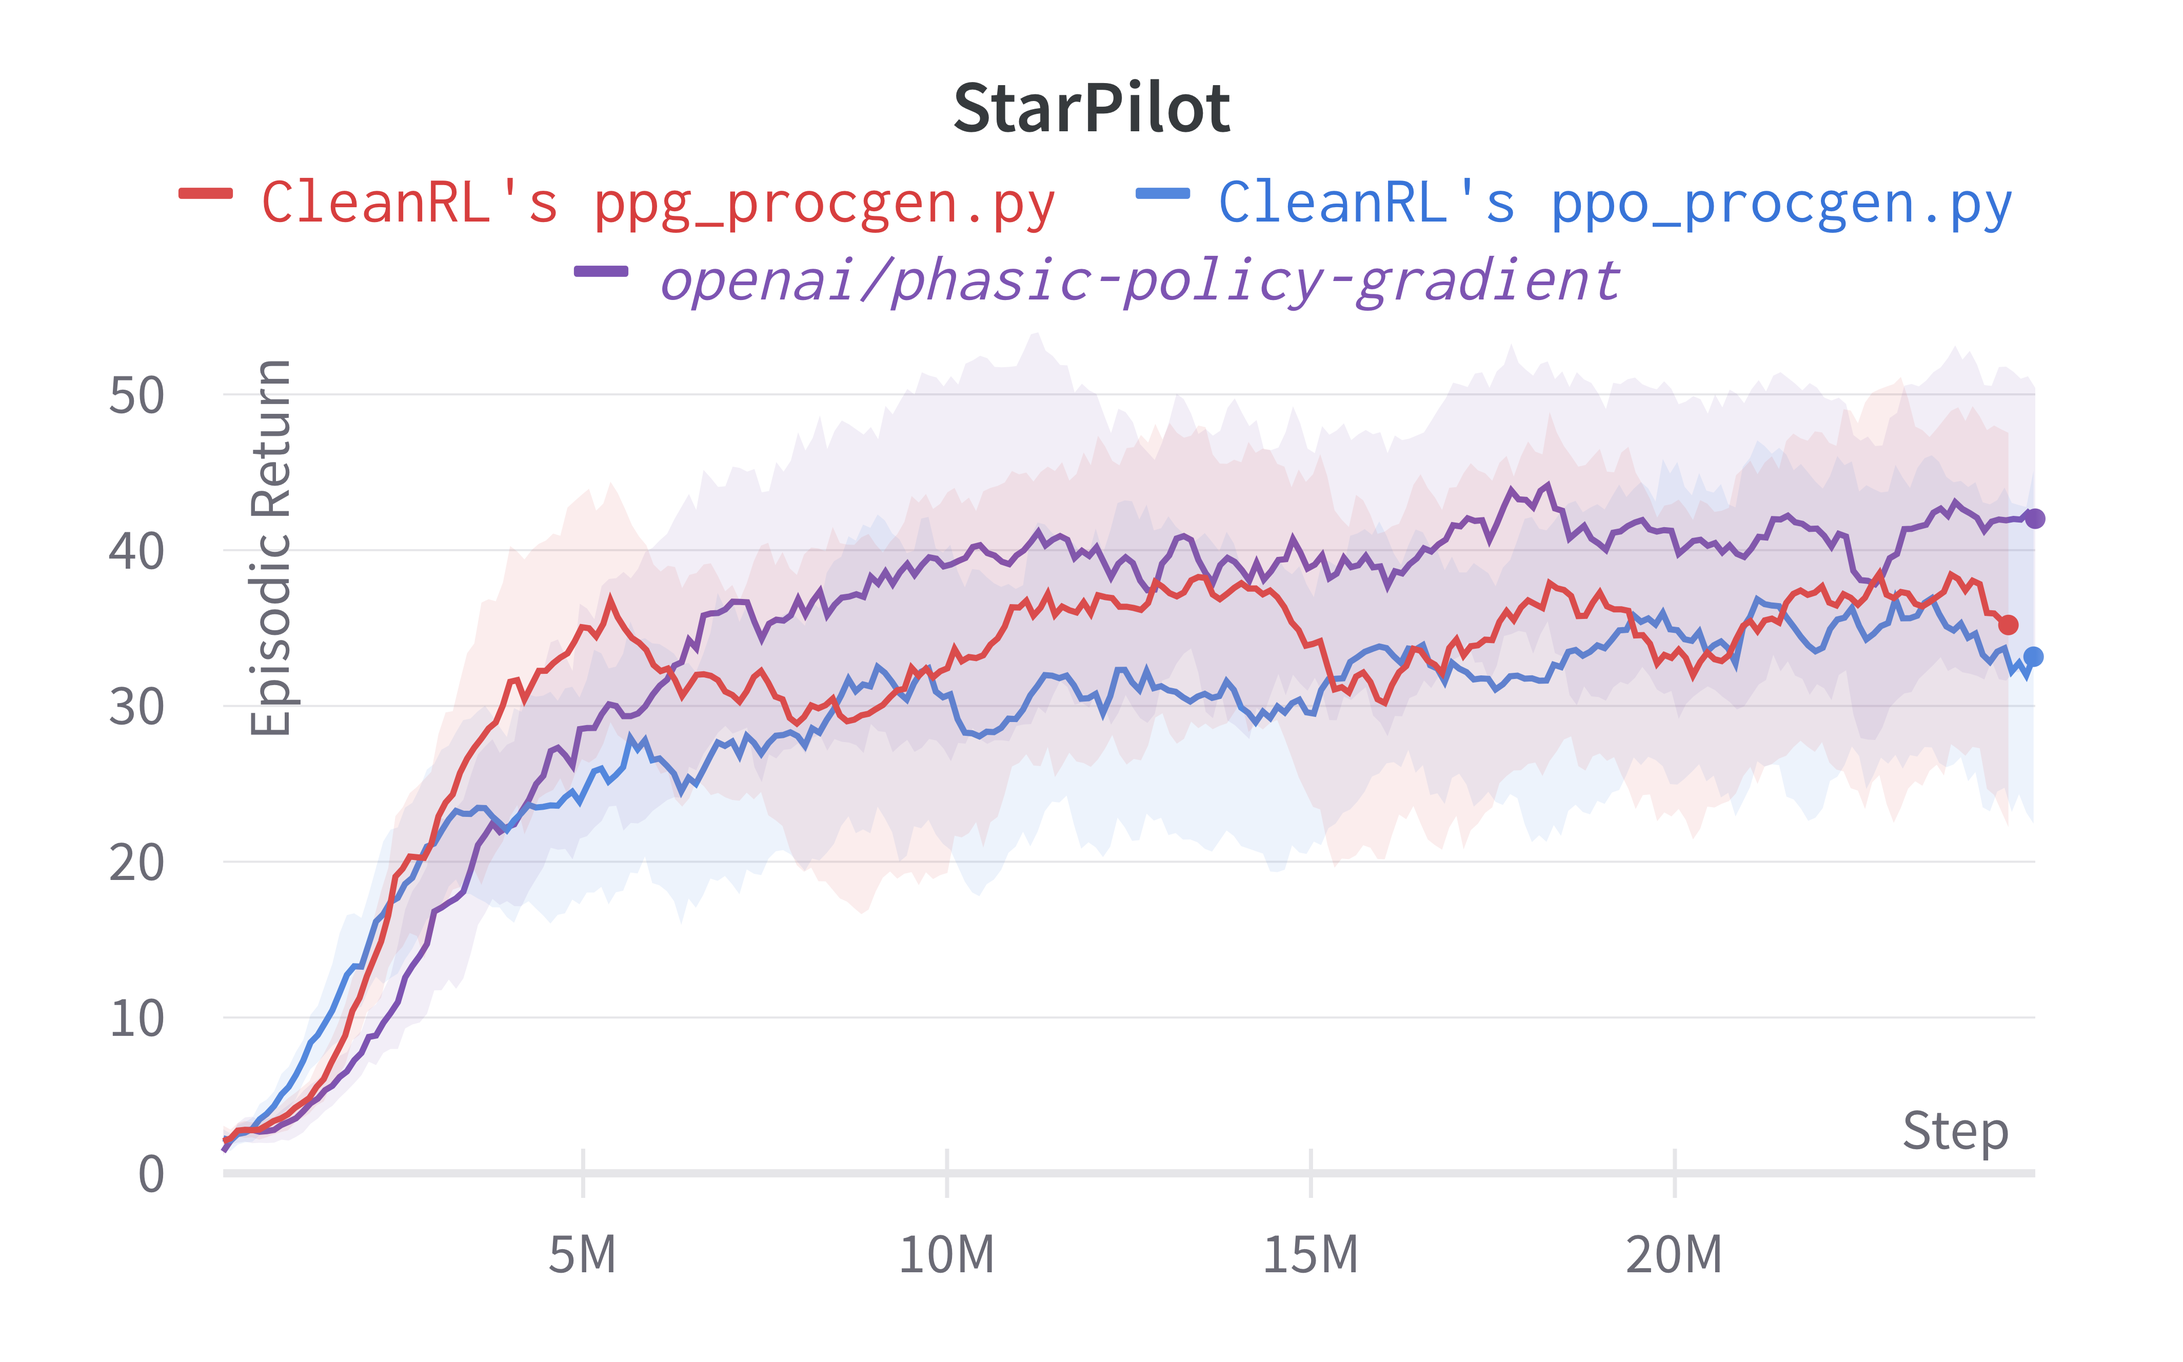
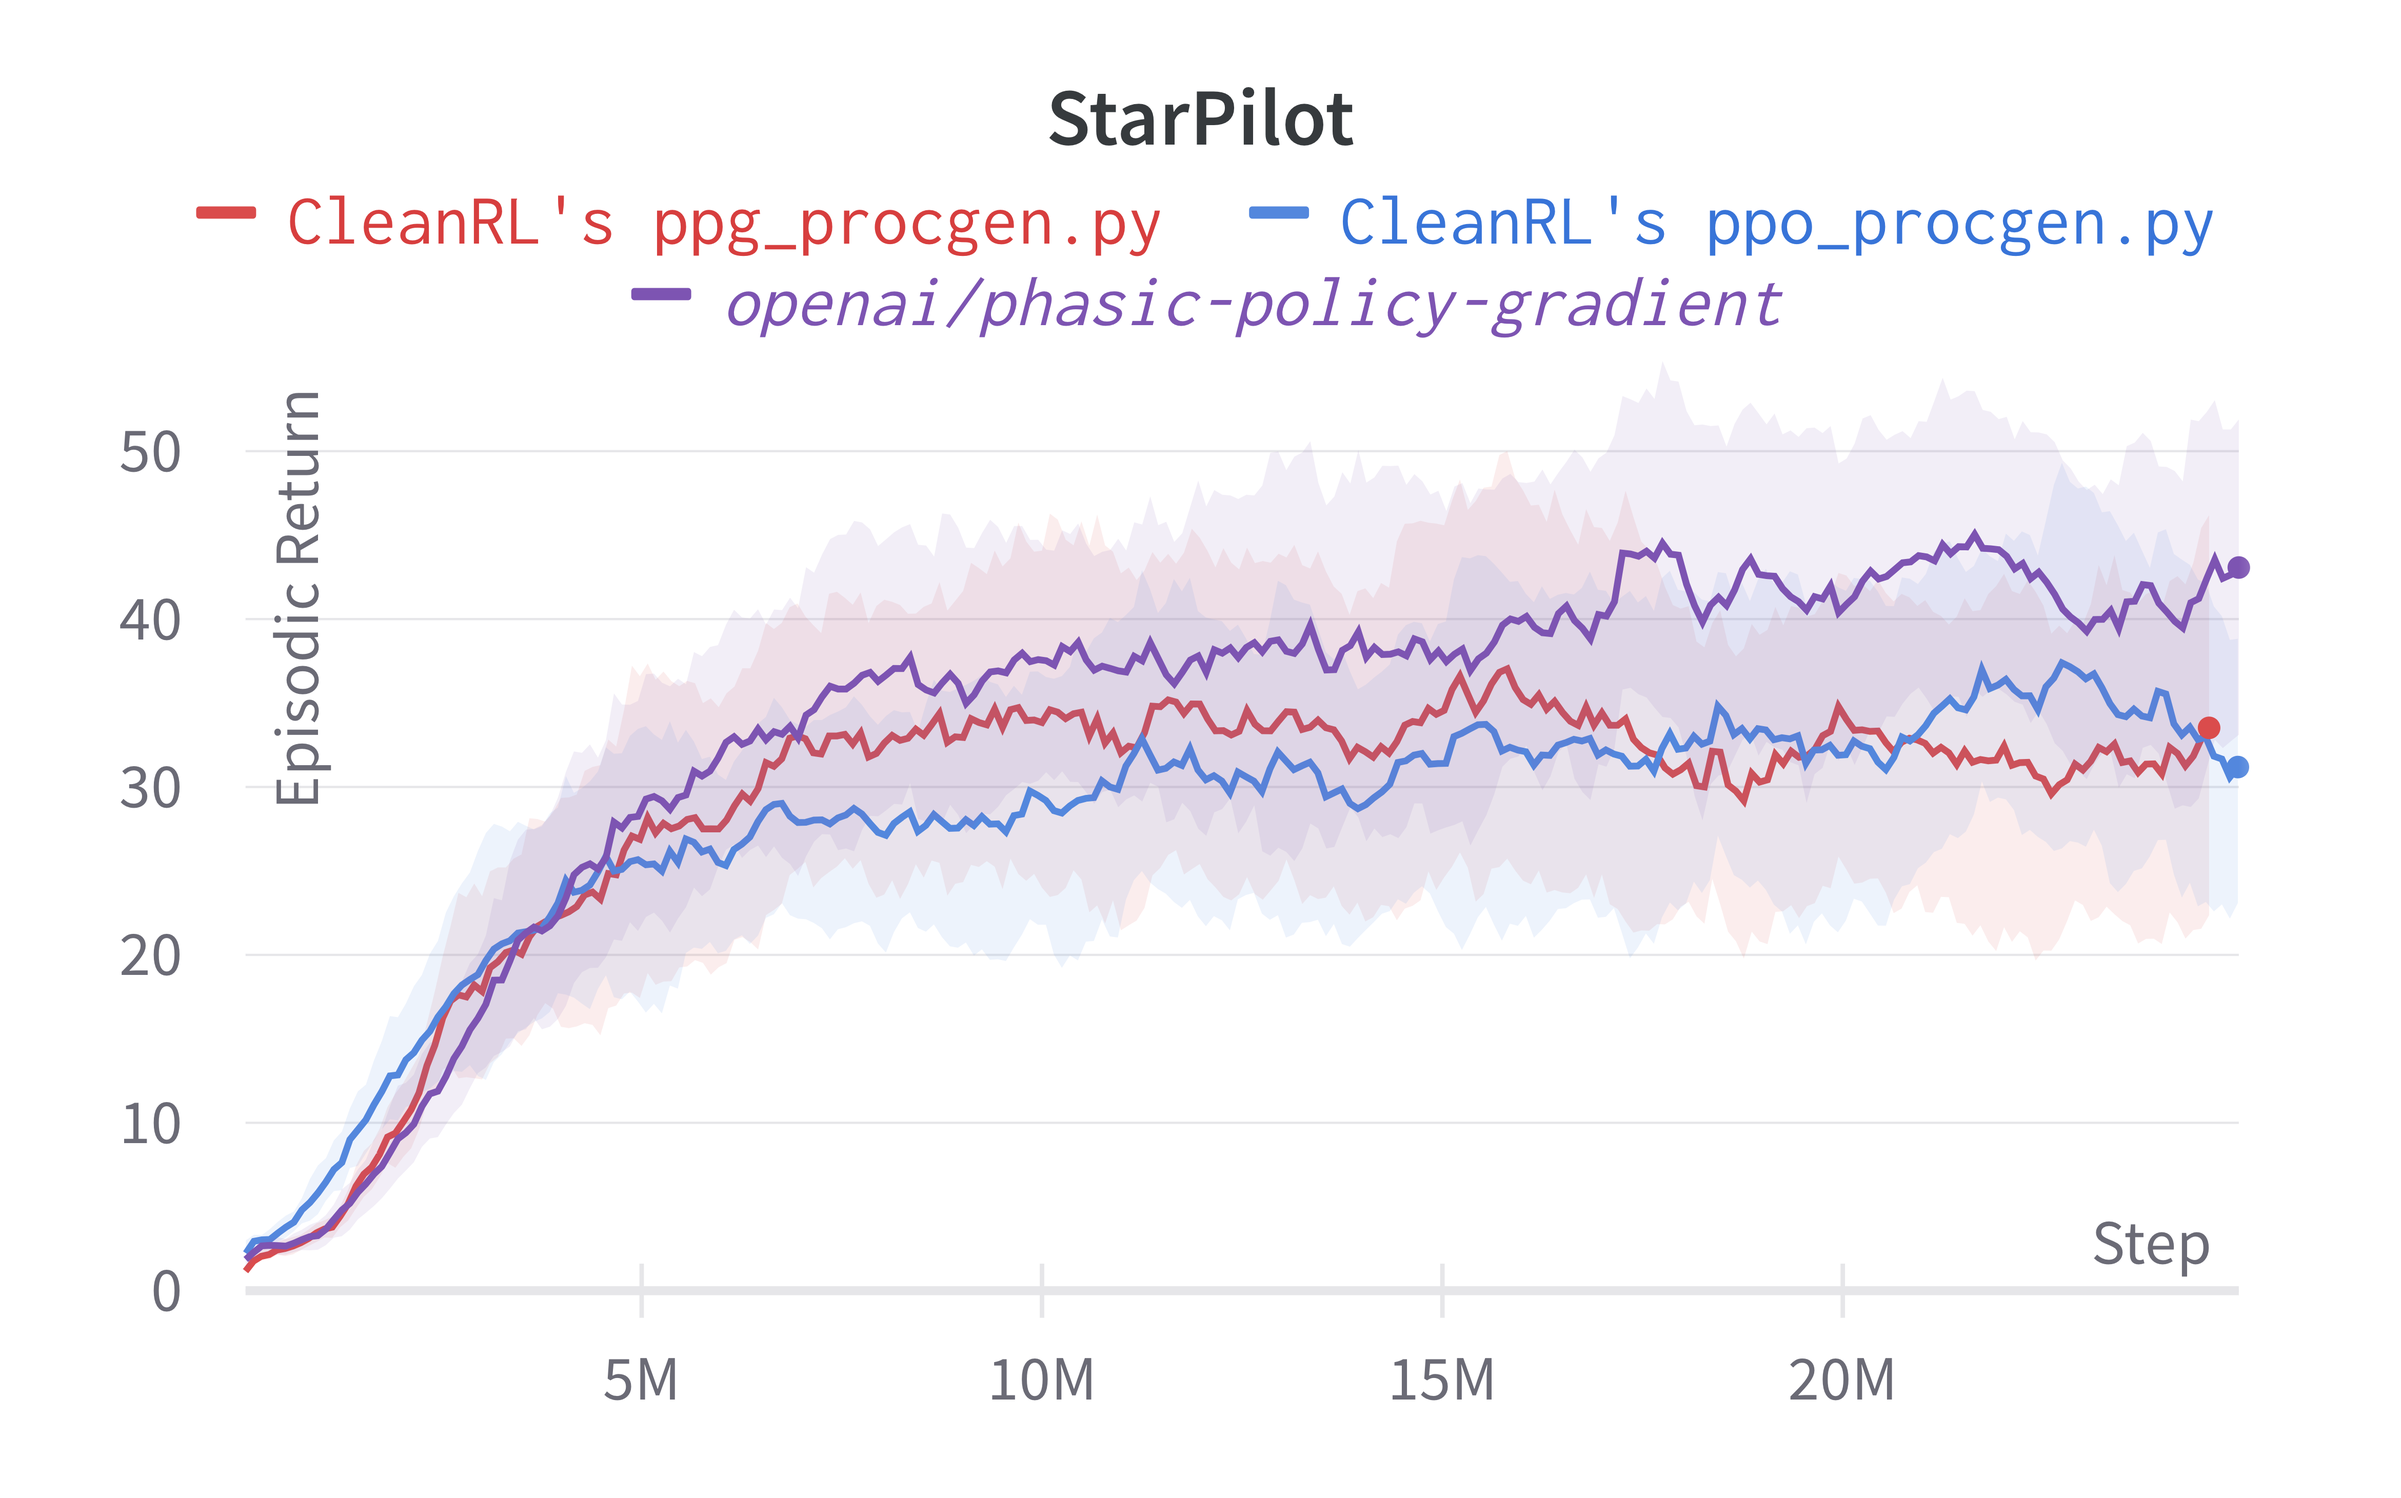
added gamma to reward normalization wrappers (#209)
* added gamma to reward normalization wrappers

* update learning curve

* update learning curves

* update numbers in docs

* Update documentation

diff --git a/cleanrl/ppo_continuous_action.py b/cleanrl/ppo_continuous_action.py
@@ -79,7 +79,7 @@ def parse_args():
     return args
 
 
-def make_env(env_id, seed, idx, capture_video, run_name):
+def make_env(env_id, seed, idx, capture_video, run_name, gamma):
     def thunk():
         env = gym.make(env_id)
         env = gym.wrappers.RecordEpisodeStatistics(env)
@@ -89,7 +89,7 @@ def make_env(env_id, seed, idx, capture_video, run_name):
         env = gym.wrappers.ClipAction(env)
         env = gym.wrappers.NormalizeObservation(env)
         env = gym.wrappers.TransformObservation(env, lambda obs: np.clip(obs, -10, 10))
-        env = gym.wrappers.NormalizeReward(env)
+        env = gym.wrappers.NormalizeReward(env, gamma=gamma)
         env = gym.wrappers.TransformReward(env, lambda reward: np.clip(reward, -10, 10))
         env.seed(seed)
         env.action_space.seed(seed)
@@ -168,7 +168,7 @@ if __name__ == "__main__":
 
     # env setup
     envs = gym.vector.SyncVectorEnv(
-        [make_env(args.env_id, args.seed + i, i, args.capture_video, run_name) for i in range(args.num_envs)]
+        [make_env(args.env_id, args.seed + i, i, args.capture_video, run_name, args.gamma) for i in range(args.num_envs)]
     )
     assert isinstance(envs.single_action_space, gym.spaces.Box), "only continuous action space is supported"
 

diff --git a/cleanrl/ppg_procgen.py b/cleanrl/ppg_procgen.py
@@ -249,7 +249,7 @@ if __name__ == "__main__":
     envs = gym.wrappers.RecordEpisodeStatistics(envs)
     if args.capture_video:
         envs = gym.wrappers.RecordVideo(envs, f"videos/{run_name}")
-    envs = gym.wrappers.NormalizeReward(envs)
+    envs = gym.wrappers.NormalizeReward(envs, gamma=args.gamma)
     envs = gym.wrappers.TransformReward(envs, lambda reward: np.clip(reward, -10, 10))
     assert isinstance(envs.single_action_space, gym.spaces.Discrete), "only discrete action space is supported"
 

diff --git a/cleanrl/ppo_procgen.py b/cleanrl/ppo_procgen.py
@@ -193,7 +193,7 @@ if __name__ == "__main__":
     envs = gym.wrappers.RecordEpisodeStatistics(envs)
     if args.capture_video:
         envs = gym.wrappers.RecordVideo(envs, f"videos/{run_name}")
-    envs = gym.wrappers.NormalizeReward(envs)
+    envs = gym.wrappers.NormalizeReward(envs, gamma=args.gamma)
     envs = gym.wrappers.TransformReward(envs, lambda reward: np.clip(reward, -10, 10))
     assert isinstance(envs.single_action_space, gym.spaces.Discrete), "only discrete action space is supported"
 

diff --git a/docs/rl-algorithms/ppg.md b/docs/rl-algorithms/ppg.md
@@ -77,6 +77,7 @@ PPG specific:
             * Fully connected layer after last conv later - 1.4
             * Convolutional layers - Approximately 0.638
 1. The Adam Optimizer's Epsilon Parameter -(:material-github: [phasic_policy_gradient/ppg.py#L239](https://github.com/openai/phasic-policy-gradient/blob/c789b00be58aa704f7223b6fc8cd28a5aaa2e101/phasic_policy_gradient/ppg.py#L239)) - Set to torch default of 1e-8 instead of 1e-5 which is used in PPO.
+1. Use the same `gamma` parameter in the `NormalizeReward` wrapper. Note that the original implementation from [openai/train-procgen](https://github.com/openai/train-procgen) uses the default `gamma=0.99` in [the `VecNormalize` wrapper](https://github.com/openai/train-procgen/blob/1a2ae2194a61f76a733a39339530401c024c3ad8/train_procgen/train.py#L43) but `gamma=0.999` as PPO's parameter. The mismatch between the `gamma`s is technically incorrect. See [#209](https://github.com/vwxyzjn/cleanrl/pull/209)
 
 Here are some additional notes:
 
@@ -105,9 +106,9 @@ Below are the average episodic returns for `ppg_procgen.py`, and comparison with
 
 | Environment      | `ppg_procgen.py` | `ppo_procgen.py` | `openai/phasic-policy-gradient` (easy) |
 |------------------|------------------|------------------|----------------------------------------|
-| Starpilot (easy) | 35.19 ± 13.07    | 33.15 ± 11.99    | 42.01 ± 9.59                           |
-| Bossfight (easy) | 10.34 ± 2.27     | 9.48 ± 2.42      | 10.71 ± 2.05                           |
-| Bigfish (easy)   | 27.25 ± 7.55     | 22.21 ± 7.42     | 15.94 ± 10.80                          |
+| Starpilot (easy) | 34.82 ± 13.77    | 32.47 ± 11.21    | 42.01 ± 9.59                           |
+| Bossfight (easy) | 10.78 ± 1.90     | 9.63 ± 2.35      | 10.71 ± 2.05                           |
+| Bigfish (easy)   | 24.23 ± 10.73    | 16.80 ± 9.49     | 15.94 ± 10.80                          |
 
 
 ???+ warning

diff --git a/docs/rl-algorithms/ppo.md b/docs/rl-algorithms/ppo.md
@@ -444,7 +444,7 @@ See [related docs](/rl-algorithms/ppo/#explanation-of-the-logged-metrics) for `p
 [ppo_procgen.py](https://github.com/vwxyzjn/cleanrl/blob/master/cleanrl/ppo_procgen.py) is based on the details in "Appendix" in [The 37 Implementation Details of Proximal Policy Optimization](https://iclr-blog-track.github.io/2022/03/25/ppo-implementation-details/), which are as follows:
 
 1. IMPALA-style Neural Network (:material-github: [common/models.py#L28](https://github.com/openai/baselines/blob/ea25b9e8b234e6ee1bca43083f8f3cf974143998/baselines/common/models.py#L28))
-
+1. Use the same `gamma` parameter in the `NormalizeReward` wrapper. Note that the original implementation from [openai/train-procgen](https://github.com/openai/train-procgen) uses the default `gamma=0.99` in [the `VecNormalize` wrapper](https://github.com/openai/train-procgen/blob/1a2ae2194a61f76a733a39339530401c024c3ad8/train_procgen/train.py#L43) but `gamma=0.999` as PPO's parameter. The mismatch between the `gamma`s is technically incorrect. See [#209](https://github.com/vwxyzjn/cleanrl/pull/209)
 
 ### Experiment results
 
@@ -465,9 +465,9 @@ Below are the average episodic returns for `ppo_procgen.py`. To ensure the quali
 
 | Environment      | `ppo_procgen.py` | `openai/baselies`' PPO (Huang et al., 2022)[^1]
 | ----------- | ----------- | ----------- |
-| StarPilot (easy)      | 31.40 ± 11.73     | 33.97 ± 7.86  |
-| BossFight (easy)   | 9.09 ± 2.35    |  9.35 ± 2.04 |
-| BigFish  (easy)  | 21.44 ± 6.73         | 20.06 ± 5.34 |
+| StarPilot (easy)      | 32.47 ± 11.21      | 33.97 ± 7.86  |
+| BossFight (easy)   | 9.63 ± 2.35    |  9.35 ± 2.04 |
+| BigFish  (easy)  | 16.80 ± 9.49         | 20.06 ± 5.34 |
 
 
 ???+ info
